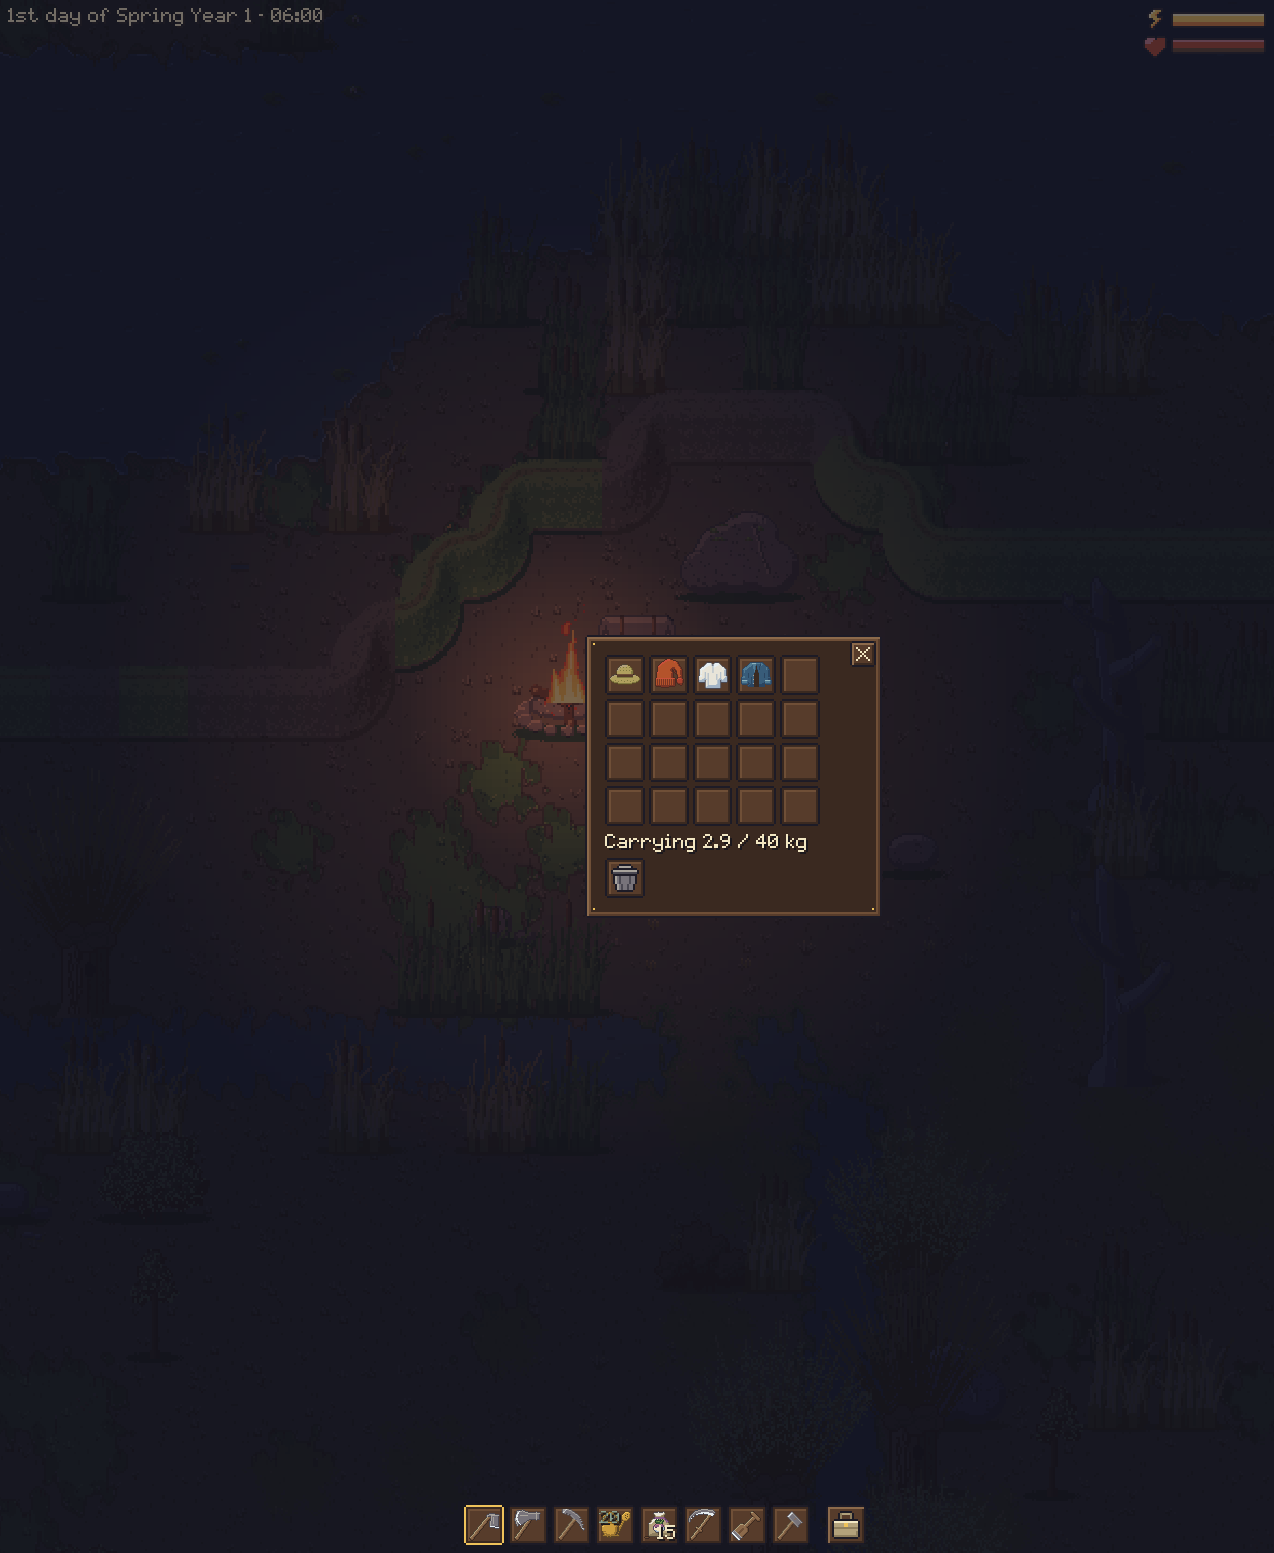
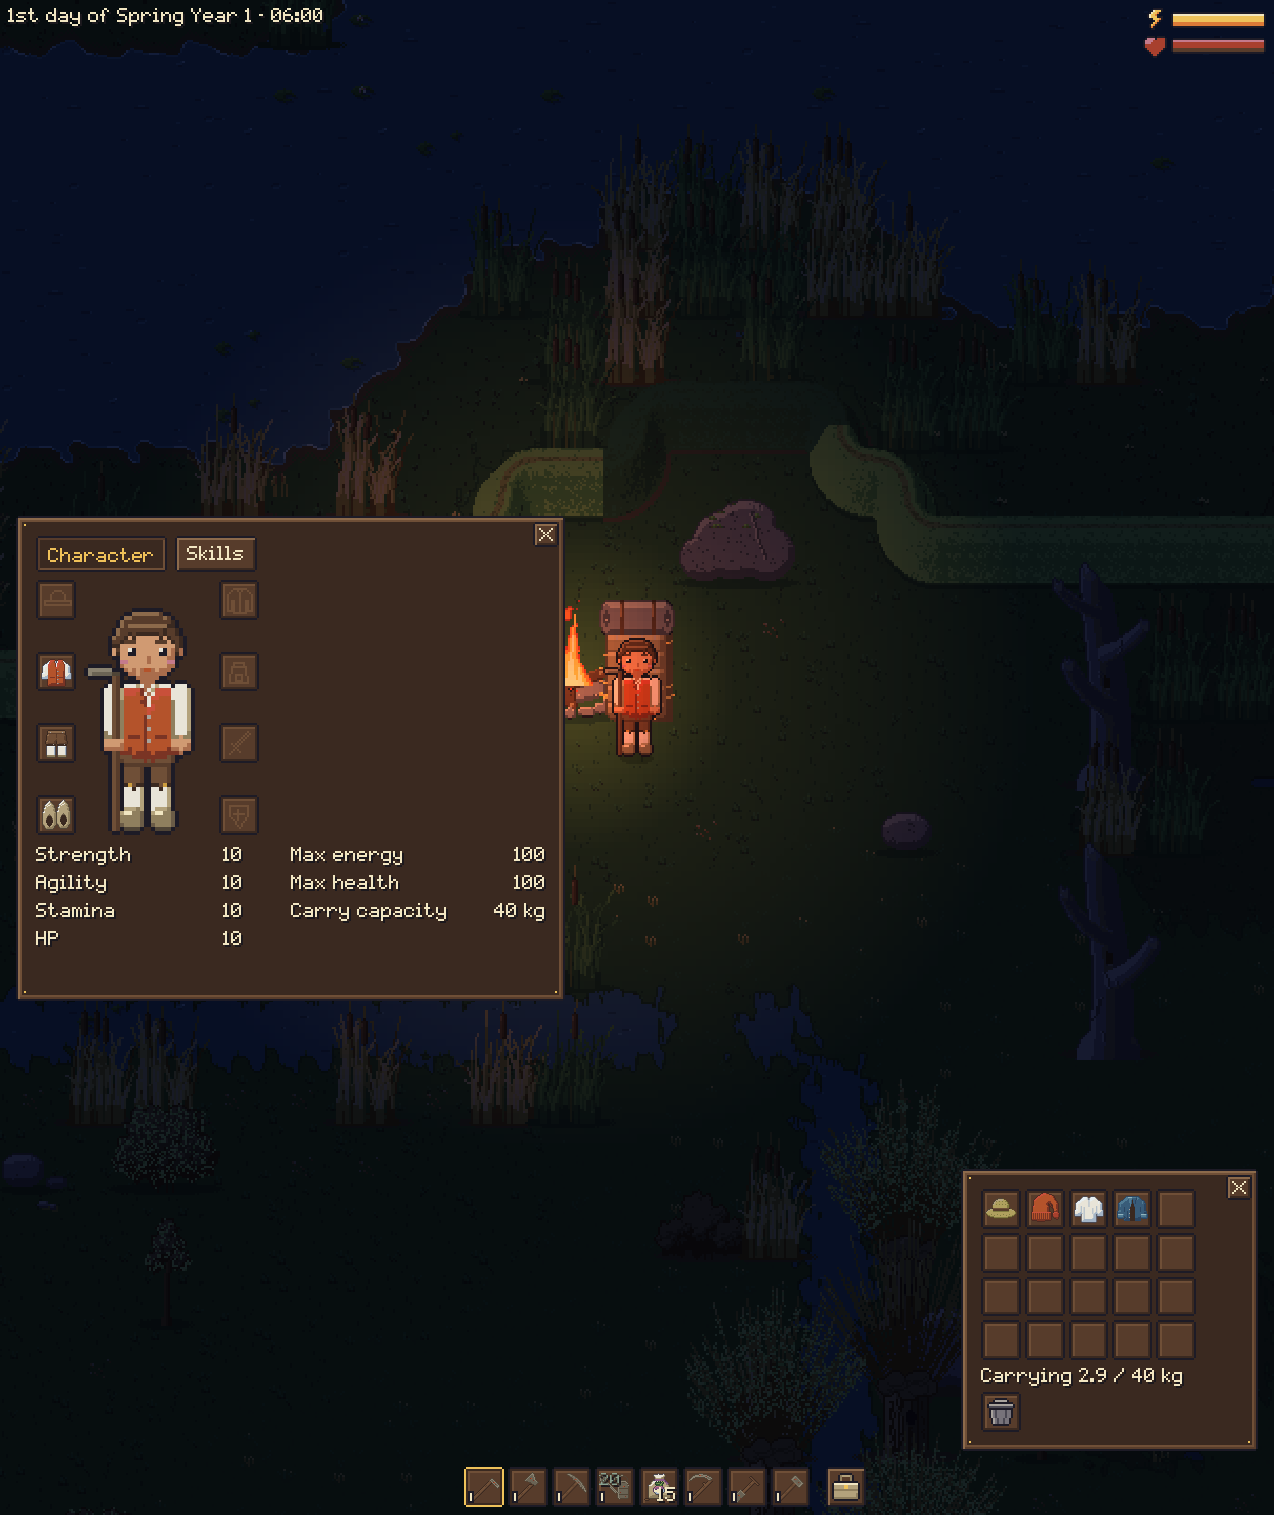
README: screenshots of the bag and the character window open together (task 215)

diff --git a/README.md b/README.md
@@ -604,7 +604,7 @@ nothing. Below 20 % energy the character sweats with every action, and below 10 
 head at midnight and again at half past, while you are still awake: you pass out an hour
 after midnight.
 
-![The bag with the backpack and its weight over the carry capacity, and the character window with the equipment slots](docs/screenshots/bag.png)
+![The bag at the bottom right and the character window at the left, open together: the backpack with its weight and trash can, the equipment slots round the figure](docs/screenshots/bag.png)
 
 ![The character window with the equipment slots, the attributes and what they give, and the skills tab beside it](docs/screenshots/character.png)
 
